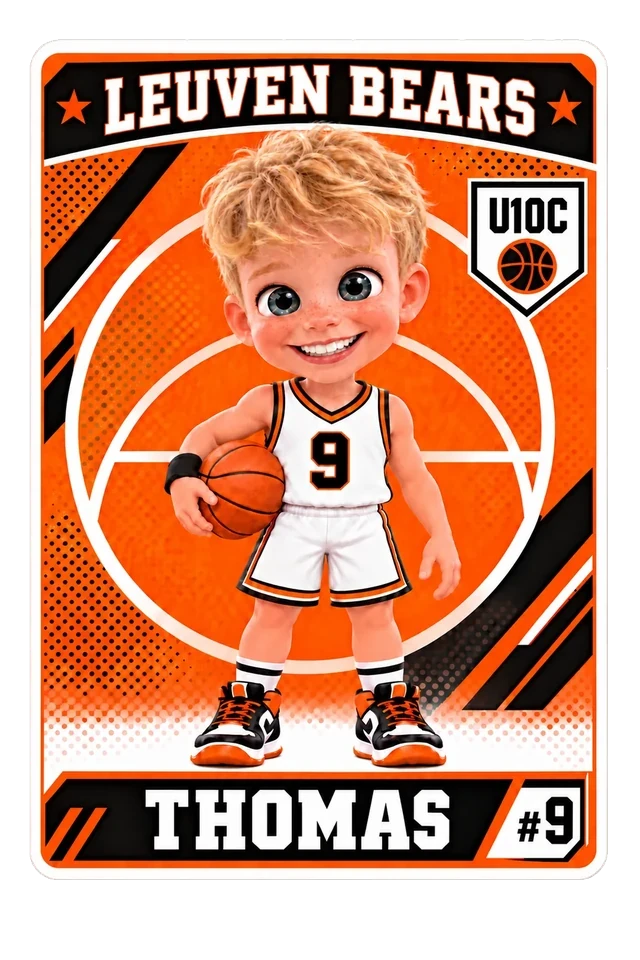
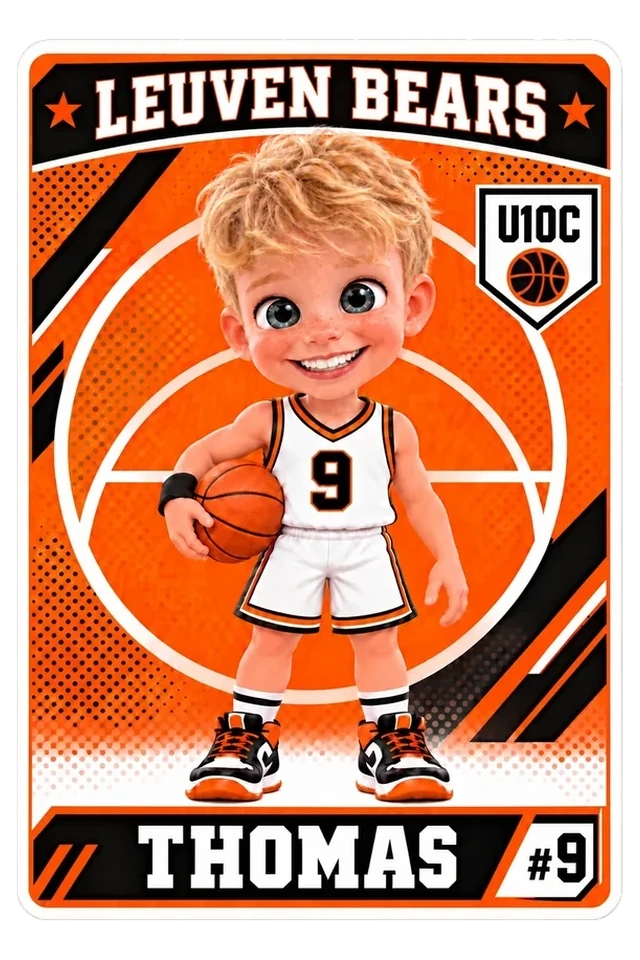
Use Bart’s framed Spelers group photo and scale Thomas to the shared card fill.
Replaces the album groepsfoto with the attached framed U10C card and re-normalizes Thomas #9 so the visible sticker fills the same 640×960 frame as the other players. Home hero is unchanged.

diff --git a/src/data/players.ts b/src/data/players.ts
@@ -51,7 +51,7 @@ export type Player = {
 /** Prefer explicit stickerSrc; Thomas still matches by first name as a fallback. */
 export function playerStickerSrc(player: Player): string | undefined {
   if (player.stickerSrc) return player.stickerSrc
-  if (player.firstName === 'Thomas') return '/stickers/thomas.webp?v=20260918g'
+  if (player.firstName === 'Thomas') return '/stickers/thomas.webp?v=20260918h'
   return undefined
 }
 
@@ -126,7 +126,7 @@ export const players: Player[] = [
     move: 'dunk',
     moveLabel: 'Dunk',
     look: { hair: '#e6c870', skin: '#eec4a2', hairStyle: 'short' },
-    stickerSrc: '/stickers/thomas.webp?v=20260918g',
+    stickerSrc: '/stickers/thomas.webp?v=20260918h',
   },
   {
     id: 'p9',

diff --git a/src/components/StickerAlbum.tsx b/src/components/StickerAlbum.tsx
@@ -28,10 +28,10 @@ export function StickerAlbum({ players, staff }: StickerAlbumProps) {
 
         <article className="sticker-slot sticker-slot--filled sticker-slot--group animate-in">
           <img
-            src="/stickers/groep-u10c-2026.webp?v=20260918g"
+            src="/stickers/groep-u10c-2026.webp?v=20260918h"
             alt={`Leuven Bears U10C groepsfoto ${team.season}`}
             width={1400}
-            height={552}
+            height={626}
             className="sticker-slot__art sticker-album__group-img"
           />
         </article>
